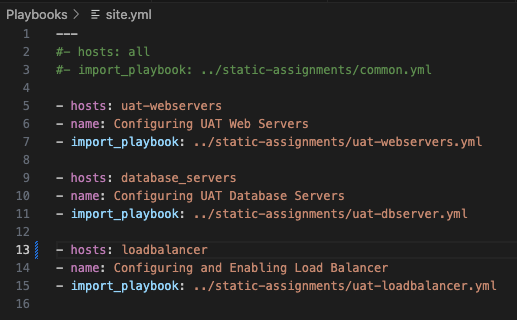
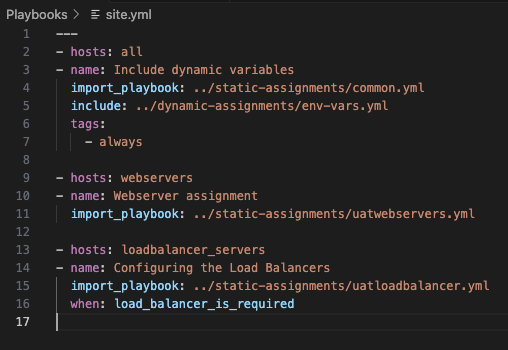
Project 14 - Completed

Changed region(s): [[0.0886, 0.5, 0.9744, 0.9375], [0.0886, 0.0938, 0.9449, 0.4688], [0.0, 0.0312, 0.2953, 0.9688]]

diff --git a/Project 14 - More on Asible 2 (Include and Coomunity Roles)/README.md b/Project 14 - More on Asible 2 (Include and Coomunity Roles)/README.md
@@ -206,8 +206,8 @@ Now, lets's configure our `uat loadbalancers`. We will be creating two (2) load 
   >   - name: myapp1
   >     strategy: "ip_hash" # "least_conn", etc.
   >     servers:
-  >       - web_uat_1:
-  >       - web_uat_2:
+  >       - <Public IP of your WEB SERVER>:
+  >       - <Public IP of your WEB SERVER>:
   > ```
 - Let's configure Apache to run on port 8080
   > `apache_listen_port: 8080`
@@ -218,13 +218,20 @@ Now, lets's configure our `uat loadbalancers`. We will be creating two (2) load 
   >     - { role: nginx, when: enable_nginx_lb and load_balancer_is_required }
   >     - { role: apache, when: enable_apache_lb and load_balancer_is_required }
   > ```
-- In the `env-vars/uat.yml` file, let's enable only the `Ngnix` loadbalancer with the code below:
+- In the `env-vars/uat.yml` file, let's enable only the `Apache` loadbalancer with the code below:
   > ```nginx
-  > enable_nginx_lb: true
-  > enable_apache_lb: false
+  > enable_nginx_lb: false
+  > enable_apache_lb: true
   > load_balancer_is_required: true
   > ```
 - Finally, let's update the `site.yml` file with our loadbalancer play
   ![Alt text](Images/Img_11.png)
 - Now, let's run the playbook with the code below:
-  > `ansible-playbook -i Inventory/uat.yml Playbooks/site.yml`
+  > `ansible-playbook -i Inventory/uat.yml Playbooks/site.yml` > ![Alt text](Images/Img_12.png)
+
+**And there you have it, Our UAT Servers have been configured.**
+
+You can ssh to the individual servers to confirm. Or you can open a web broswers and enter the public ip adddress of your webserver/index.php.
+![Alt text](Images/Img_13.png)
+
+Now, ensure you commint all changes in the `roles-feature` branch and merge with the `main` branch.
